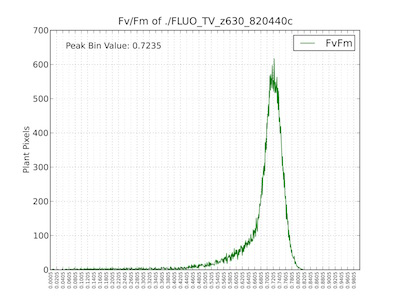
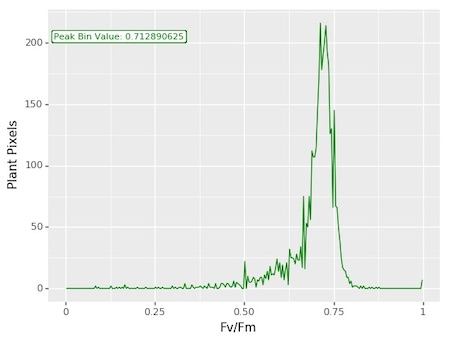
analyze_object and fluor_fvfm edits
- Update fluor_fvfm function -
return a list of objects/images rather than a list of image names, get rid of filename argument, return grayscale image in rather than pseudocolored images so instead users can use pcv.pseudocolor which allows gives more control, and it always plots the correct colorbar. Edit function so that no images will get plotted to the screen when debug=None. Updated documentation. Appended parameter updates to updating.md doc
- Analyze_object function -
Got rid of the filename parameter, function returns array of images rather than an array of image names, updated documentation, and appended parameter updates to the updating.md doc

diff --git a/plantcv/plantcv/fluor_fvfm.py b/plantcv/plantcv/fluor_fvfm.py
@@ -3,34 +3,31 @@
 import os
 import cv2
 import numpy as np
+import pandas as pd
 from plantcv.plantcv import print_image
 from plantcv.plantcv import plot_image
 from plantcv.plantcv import plot_colorbar
 from plantcv.plantcv import fatal_error
 from plantcv.plantcv import params
+from plotnine import ggplot, geom_label, aes, geom_line
 
 
-def fluor_fvfm(fdark, fmin, fmax, mask, filename, bins=256):
+def fluor_fvfm(fdark, fmin, fmax, mask, bins=256):
     """Analyze PSII camera images.
-
     Inputs:
     fdark       = grayscale fdark image
     fmin        = grayscale fmin image
     fmax        = grayscale fmax image
     mask        = mask of plant (binary, single channel)
-    filename    = name of file
     bins        = number of bins (1 to 256 for 8-bit; 1 to 65,536 for 16-bit; default is 256)
-
     Returns:
     hist_header     = fvfm data table headers
     hist_data       = fvfm data table values
-    analysis_images = pseudocolored image
-
+    analysis_images = list of images (fv image and fvfm histogram image)
     :param fdark: numpy.ndarray
     :param fmin: numpy.ndarray
     :param fmax: numpy.ndarray
     :param mask: numpy.ndarray
-    :param filename: str
     :param bins: int
     :return hist_header: list
     :return hist_data: list
@@ -68,6 +65,8 @@ def fluor_fvfm(fdark, fmin, fmax, mask, filename, bins=256):
     # Because the data type is unsigned integers, negative values roll over, resulting in nonsensical values
     # Wherever Fmin is greater than Fmax, set Fv to zero
     fv[np.where(fmax_mask < fmin_mask)] = 0
+    analysis_images = []
+    analysis_images.append(fv)
 
     # Calculate Fv/Fm (Fvariable / Fmax) where Fmax is greater than zero
     # By definition above, wherever Fmax is zero, Fvariable will also be zero
@@ -110,64 +109,69 @@ def fluor_fvfm(fdark, fmin, fmax, mask, filename, bins=256):
         qc_fdark
     )
 
-    analysis_images = []
 
-    if filename:
-        import matplotlib
-        matplotlib.use('Agg', warn=False)
-        from matplotlib import pyplot as plt
-        from matplotlib import cm as cm
+    # Print F-variable image
+    # print_image(fv, (os.path.splitext(filename)[0] + '_fv_img.png'))
+    # analysis_images.append(['IMAGE', 'fv', os.path.splitext(filename)[0] + '_fv_img.png'])
 
-        # Print F-variable image
-        print_image(fv, (os.path.splitext(filename)[0] + '_fv_img.png'))
-        analysis_images.append(['IMAGE', 'fv', os.path.splitext(filename)[0] + '_fv_img.png'])
+    # Create Histogram Plot, if you change the bin number you might need to change binx so that it prints
+    # an appropriate number of labels
+    # Create a dataframe
+    dataset = pd.DataFrame({'Plant Pixels': fvfm_hist, 'Fv/Fm': midpoints})
+    # Make the histogram figure using plotnine
+    fvfm_hist_fig = (ggplot(data=dataset, mapping=aes(x='Fv/Fm', y='Plant Pixels'))
+                     + geom_line(color='green', show_legend=True)
+                     + geom_label(label='Peak Bin Value: ' + str(max_bin),
+                                  x=.15, y=205, size=8, color='green'))
+    analysis_images.append(fvfm_hist_fig)
 
-        # Create Histogram Plot, if you change the bin number you might need to change binx so that it prints
-        # an appropriate number of labels
-        binx = int(bins / 50)
-        plt.plot(midpoints, fvfm_hist, color='green', label='Fv/Fm')
-        plt.xticks(list(midpoints[0::binx]), rotation='vertical', size='xx-small')
-        plt.legend()
-        ax = plt.subplot(111)
-        ax.set_ylabel('Plant Pixels')
-        ax.text(0.05, 0.95, ('Peak Bin Value: ' + str(max_bin)), transform=ax.transAxes, verticalalignment='top')
-        plt.grid()
-        plt.title('Fv/Fm of ' + os.path.splitext(filename)[0])
-        fig_name = (os.path.splitext(filename)[0] + '_fvfm_hist.svg')
-        plt.savefig(fig_name)
-        plt.clf()
-        analysis_images.append(['IMAGE', 'fvfm_hist', fig_name])
+    # Changed histogram method over from matplotlib pyplot to plotnine
+    # binx = int(bins / 50)
+    # plt.plot(midpoints, fvfm_hist, color='green', label='Fv/Fm')
+    # plt.xticks(list(midpoints[0::binx]), rotation='vertical', size='xx-small')
+    # plt.legend()
+    # ax = plt.subplot(111)
+    # ax.set_ylabel('Plant Pixels')
+    # ax.text(0.05, 0.95, ('Peak Bin Value: ' + str(max_bin)), transform=ax.transAxes, verticalalignment='top')
+    # plt.grid()
+    # plt.title('Fv/Fm of ' + os.path.splitext(filename)[0])
+    # fig_name = (os.path.splitext(filename)[0] + '_fvfm_hist.svg')
+    # plt.savefig(fig_name)
+    # plt.clf()
+    # analysis_images.append(['IMAGE', 'fvfm_hist', fig_name])
 
-        # Pseudocolored Fv/Fm image
-        plt.imshow(fvfm, vmin=0, vmax=1, cmap="viridis")
-        plt.colorbar()
-        # fvfm_8bit = fvfm * 255
-        # fvfm_8bit = fvfm_8bit.astype(np.uint8)
-        # plt.imshow(fvfm_8bit, vmin=0, vmax=1, cmap=cm.jet_r)
-        # plt.subplot(111)
-        # mask_inv = cv2.bitwise_not(mask)
-        # background = np.dstack((mask, mask, mask, mask_inv))
-        # my_cmap = plt.get_cmap('binary_r')
-        # plt.imshow(background, cmap=my_cmap)
-        plt.axis('off')
-        fig_name = (os.path.splitext(filename)[0] + '_pseudo_fvfm.png')
-        plt.savefig(fig_name, dpi=600, bbox_inches='tight')
-        plt.clf()
-        analysis_images.append(['IMAGE', 'fvfm_pseudo', fig_name])
+    # No longer pseudocolor the image, instead can be pseudocolored by pcv.pseudocolor
+    # # Pseudocolored Fv/Fm image
+    # plt.imshow(fvfm, vmin=0, vmax=1, cmap="viridis")
+    # plt.colorbar()
+    # # fvfm_8bit = fvfm * 255
+    # # fvfm_8bit = fvfm_8bit.astype(np.uint8)
+    # # plt.imshow(fvfm_8bit, vmin=0, vmax=1, cmap=cm.jet_r)
+    # # plt.subplot(111)
+    # # mask_inv = cv2.bitwise_not(mask)
+    # # background = np.dstack((mask, mask, mask, mask_inv))
+    # # my_cmap = plt.get_cmap('binary_r')
+    # # plt.imshow(background, cmap=my_cmap)
+    # plt.axis('off')
+    # fig_name = (os.path.splitext(filename)[0] + '_pseudo_fvfm.png')
+    # plt.savefig(fig_name, dpi=600, bbox_inches='tight')
+    # plt.clf()
+    # analysis_images.append(['IMAGE', 'fvfm_pseudo', fig_name])
 
-        path = os.path.dirname(filename)
-        fig_name = 'FvFm_pseudocolor_colorbar.svg'
-        if not os.path.isfile(os.path.join(path, fig_name)):
-            plot_colorbar(path, fig_name, 2)
+    # path = os.path.dirname(filename)
+    # fig_name = 'FvFm_pseudocolor_colorbar.svg'
+    # if not os.path.isfile(os.path.join(path, fig_name)):
+    #     plot_colorbar(path, fig_name, 2)
 
     if params.debug == 'print':
         print_image(fmin_mask, os.path.join(params.debug_outdir, str(params.device) + '_fmin_mask.png'))
         print_image(fmax_mask, os.path.join(params.debug_outdir, str(params.device) + '_fmax_mask.png'))
         print_image(fv, os.path.join(params.debug_outdir, str(params.device) + '_fv_convert.png'))
+        fvfm_hist_fig.save(os.path.join(params.debug_outdir, str(params.device) + '_fv_hist.png'))
     elif params.debug == 'plot':
         plot_image(fmin_mask, cmap='gray')
         plot_image(fmax_mask, cmap='gray')
         plot_image(fv, cmap='gray')
-        plot_image(fvfm, cmap="jet")
+        print(fvfm_hist_fig)
 
     return hist_header, hist_data, analysis_images

diff --git a/plantcv/plantcv/analyze_object.py b/plantcv/plantcv/analyze_object.py
@@ -8,14 +8,13 @@ from plantcv.plantcv import plot_image
 from plantcv.plantcv import params
 
 
-def analyze_object(img, obj, mask, filename=False):
+def analyze_object(img, obj, mask):
     """Outputs numeric properties for an input object (contour or grouped contours).
 
     Inputs:
     img             = RGB or grayscale image data for plotting
     obj             = single or grouped contour object
     mask            = Binary image to use as mask for moments analysis
-    filename        = False or image name. If defined print image
 
     Returns:
     shape_header    = shape data table headers
@@ -25,7 +24,6 @@ def analyze_object(img, obj, mask, filename=False):
     :param img: numpy.ndarray
     :param obj: list
     :param mask: numpy.ndarray
-    :param filename: str
     :return shape_header: list
     :return shape_data: list
     :return analysis_images: list
@@ -218,7 +216,7 @@ def analyze_object(img, obj, mask, filename=False):
     analysis_images = []
 
     # Draw properties
-    if area and filename:
+    if area:
         cv2.drawContours(ori_img, obj, -1, (255, 0, 0), 5)
         cv2.drawContours(ori_img, [hull], -1, (0, 0, 255), 5)
         cv2.line(ori_img, (x, y), (x + width, y), (0, 0, 255), 5)
@@ -226,14 +224,14 @@ def analyze_object(img, obj, mask, filename=False):
         cv2.line(ori_img, (tuple(caliper_transpose[caliper_length - 1])), (tuple(caliper_transpose[0])), (0, 0, 255), 5)
         cv2.circle(ori_img, (int(cmx), int(cmy)), 10, (0, 0, 255), 5)
         # Output images with convex hull, extent x and y
-        out_file = os.path.splitext(filename)[0] + '_shapes.jpg'
-        out_file1 = os.path.splitext(filename)[0] + '_mask.jpg'
+        # out_file = os.path.splitext(filename)[0] + '_shapes.jpg'
+        # out_file1 = os.path.splitext(filename)[0] + '_mask.jpg'
 
-        print_image(ori_img, out_file)
-        analysis_images.append(['IMAGE', 'shapes', out_file])
+        # print_image(ori_img, out_file)
+        analysis_images.append(ori_img)
 
-        print_image(mask, out_file1)
-        analysis_images.append(['IMAGE', 'mask', out_file1])
+        # print_image(mask, out_file1)
+        analysis_images.append(mask)
 
     else:
         pass

diff --git a/docs/fluor_fvfm.md b/docs/fluor_fvfm.md
@@ -1,22 +1,21 @@
 ## Analyze PSII Signal
 
-Extract Fv/Fm data of objects and produce pseudocolored images.
+Extract Fv/Fm data of objects.
 
-**plantcv.fluor_fvfm**(*fdark, fmin, fmax, mask, filename, bins=256*)
+**plantcv.fluor_fvfm**(*fdark, fmin, fmax, mask, bins=256*)
 
-**returns** Fv/Fm histogram headers, Fv/Fm histogram data, PSII analysis images list
+**returns** Fv/Fm histogram headers, Fv/Fm histogram data, PSII analysis images (Fv image, Fv/Fm histogram)
 
 - **Parameters:**
     - fdark - image object, grayscale
     - fmin - image object  grayscale
     - fmax - image object, grayscale
     - mask - binary mask of selected contours
-    - filename - False or image name. If defined print image.
     - bins - number of grayscale bins (0-256 for 8-bit images and 0 to 65,536), if you would like to bin data, you would alter this number (default bins=256)
 - **Context:**
     - Used to extract fv/fm per identified plant pixel.
     - Generates histogram of fv/fm data.
-    - Generates pseudocolored output image with fv/fm values per plant pixel.
+    - Generates fv/fm image.
 - **Example use:**
     - [Use In PSII Tutorial](psII_tutorial.md)
     
@@ -47,13 +46,26 @@ from plantcv import plantcv as pcv
 pcv.params.debug = "print"
 
 # Analyze Fv/Fm    
- fvfm_header, fvfm_data, fvfm_images = pcv.fluor_fvfm(fdark, fmin, fmax, kept_mask, filename, 1000)
+ fvfm_header, fvfm_data, fvfm_images = pcv.fluor_fvfm(fdark, fmin, fmax, kept_mask, 256)
+
+# Store the two images
+fv_img=fvfm_images[0]
+fvfm_hist=fvfm_images[1]
+
+# Plot the histogram
+fvfm_hist
+
+ # Pseudocolor the Fv/Fm image
+ pseudo_img = pcv.pseudocolor(gray_img=fv_img, mask=kept_mask)
 ```
 
 **Histogram of Fv/Fm values**
 
 ![Screenshot](img/documentation_images/fluor_fvfm/fvfm_histogram.jpg)
 
-**Pseudocolored output image based on Fv/Fm values**
+**Pseudocolored output image based on Fv/Fm**
 
-![Screenshot](img/documentation_images/fluor_fvfm/fvfm_pseudocolored.jpg)
+![Screenshot](img/documentation_images/pseudocolor/pseudo_img.jpg)
+
+The grayscale Fv/Fm image (returned to analysis_image) can be used with the [pcv.pseudocolor](pseudocolor.md) function
+which allows the user to pick a colormap for plotting.

diff --git a/docs/analyze_shape.md b/docs/analyze_shape.md
@@ -2,15 +2,14 @@
 
 Shape analysis outputs numeric properties for an input object (contour or grouped contours), works best on grouped contours.
  
-**plantcv.analyze_object**(*img, obj, mask, filename=False*)
+**plantcv.analyze_object**(*img, obj, mask*)
 
-**returns** shape data headers, shape data, image with shape data
+**returns** shape data headers, shape data, analysis_images
 
 - **Parameters:**
     - img - RGB or grayscale image data for plotting.
     - obj - Single or grouped contour object.
     - mask - Binary image to use as mask for moments analysis.
-    - filename - False (default) or image name. If defined print image.
 - **Context:**
     - Used to output shape characteristics of an image, including height, object area, convex hull, convex hull area, perimeter, extent x, extent y, longest axis, centroid x coordinate, centroid y coordinate, in bounds QC (if object touches edge of image, image is flagged). 
 - **Example use:**
@@ -51,7 +50,11 @@ pcv.params.debug = "print"
 
 # Characterize object shapes
     
-shape_header, shape_data, shape_img = pcv.analyze_object(img, objects, mask, "/home/malia/setaria_shape_img.png")
+shape_header, shape_data, shape_images = pcv.analyze_object(img, objects, mask)
+
+# Save returned images with more specific naming
+shape_image, mask = shape_images
+pcv.print_image(shape_image, '/home/malia/setaria_shape_img.png')
 ```
 
 **Image with identified objects**

diff --git a/docs/updating.md b/docs/updating.md
@@ -173,6 +173,7 @@ pages for more details on the input and output variable types.
 
 * pre v3.0dev2: device, shape_header, shape_data, analysis_images = **plantcv.analyze_object**(*img, imgname, obj, mask, device, debug=None, filename=False*)
 * post v3.0dev2: shape_header, shape_data, analysis_images = **plantcv.analyze_object**(*img, obj, mask, filename=False*)
+* post v3.0.5: shape_header, shape_data, analysis_images = **plantcv.analyze_object**(*img, obj, mask*)
 
 #### plantcv.auto_crop
 
@@ -253,6 +254,7 @@ pages for more details on the input and output variable types.
 
 * pre v3.0dev2: device, hist_header, hist_data = **plantcv.fluor_fvfm**(*fdark, fmin, fmax, mask, device, filename, bins=1000, debug=None*)
 * post v3.0dev2: hist_header, hist_data, hist_images = **plantcv.fluor_fvfm**(*fdark, fmin, fmax, mask, filename, bins=256*)
+* post v3.0.5: hist_header, hist_data, analysis_images = **plantcv.fluor_fvfm**(*fdark, fmin, fmax, mask, bins=256*)
 
 #### plantcv.gaussian_blur
 
